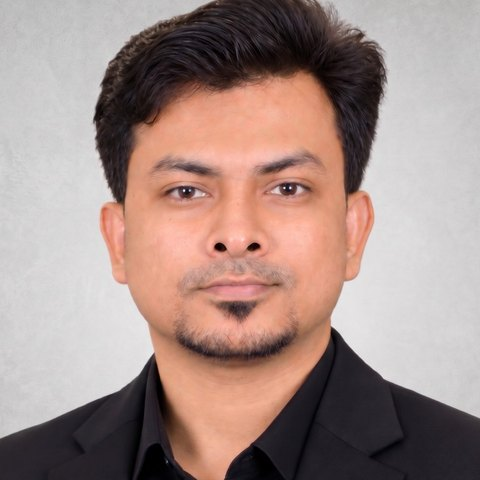
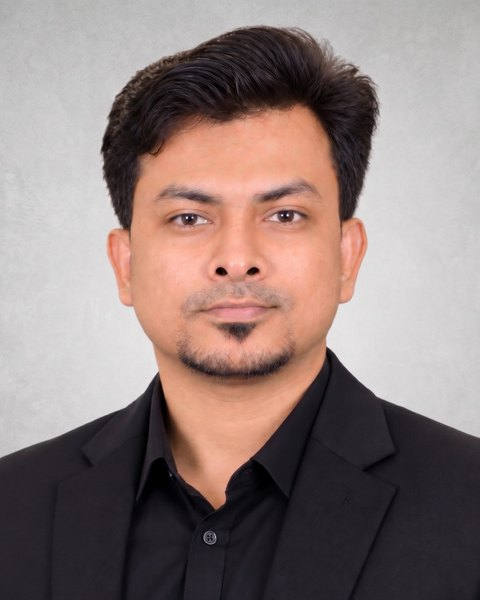
feat: update About section layout and image presentation for improved aesthetics

diff --git a/app/globals.css b/app/globals.css
@@ -739,3 +739,20 @@ footer{display:flex;justify-content:space-between;gap:12px;flex-wrap:wrap;paddin
 .posts a{grid-template-columns:1fr auto}
 .posts i{grid-row:1/3}
 .wn .paper{align-self:stretch}
+
+/* about portrait: 4:5 card instead of a circle */
+.about{grid-template-columns:260px 1fr}
+.ab-me{gap:18px}
+.ab-frame{position:relative;width:100%;max-width:260px;aspect-ratio:4/5;border-radius:20px;overflow:hidden;border:1px solid var(--line2);background:var(--raise);
+  box-shadow:0 30px 60px -30px rgba(var(--accent-rgb,157,184,255),.35)}
+.ab-frame::after{content:"";position:absolute;inset:0;border-radius:inherit;pointer-events:none;
+  background:linear-gradient(180deg,transparent 60%,rgba(0,0,0,.18));box-shadow:inset 0 0 0 1px rgba(255,255,255,.06)}
+.ab-frame .ab-photo{width:100%;height:100%;object-fit:cover;object-position:50% 30%;border:0;border-radius:0;box-shadow:none;filter:none;transition:transform .8s var(--ease)}
+.ab-frame:hover .ab-photo{transform:scale(1.03)}
+.ab-me b{font-size:1.02rem}
+@media (max-width:820px){.about{grid-template-columns:1fr}}
+@media (max-width:640px){
+  .ab-me{flex-direction:row;align-items:center;gap:16px}
+  .ab-frame{width:112px;flex:none;border-radius:14px}
+  .ab-frame .ab-photo{width:100%;height:100%}
+}

diff --git a/components/About.tsx b/components/About.tsx
@@ -16,7 +16,7 @@ export default function About() {
     <section id="about">
       <Reveal className="about">
         <div className="ab-me">
-          <Image className="ab-photo" src="/headshot.jpg" alt={`Portrait of ${profile.name}`} width={180} height={180} priority={false} />
+          <div className="ab-frame"><Image className="ab-photo" src="/headshot.jpg" alt={`Portrait of ${profile.name}`} width={480} height={600} sizes="(max-width: 640px) 112px, 260px" /></div>
           <div><b>{profile.name}</b><span>{profile.role} · {profile.location}</span></div>
         </div>
         <div className="ab-text">
